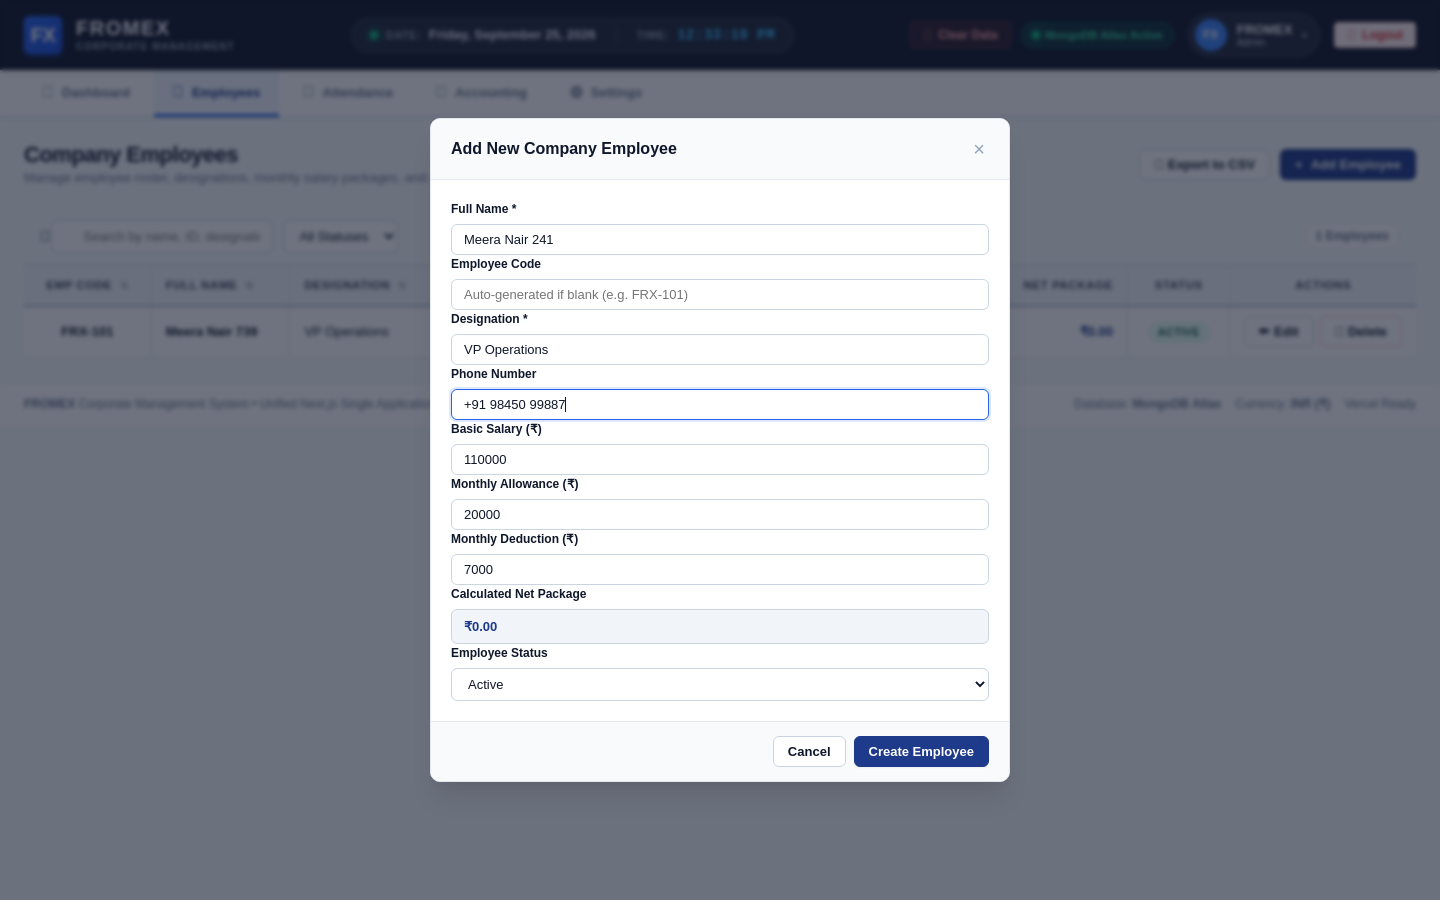
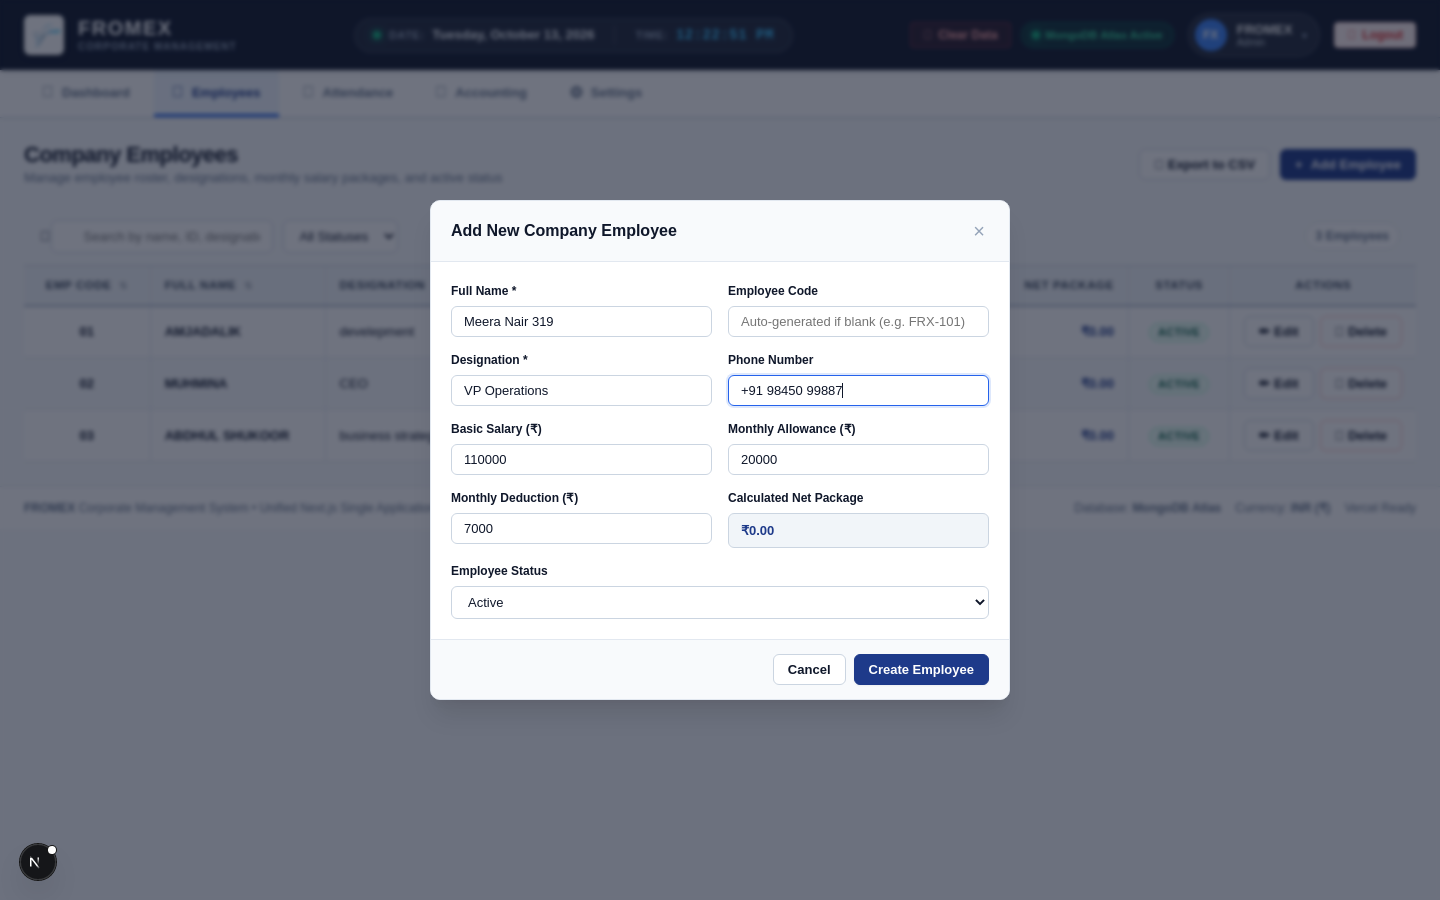
Initial commit

diff --git a/app/page.tsx b/app/page.tsx
@@ -502,7 +502,9 @@ export default function FromexApplication() {
       {/* Corporate Header */}
       <header className="app-header">
         <div className="brand-section">
-          <div className="brand-logo-icon">FX</div>
+          <div className="brand-logo-icon">
+            <img src="/fromex-logo-icon.png" alt="FROMEX Logo" className="brand-logo-img" />
+          </div>
           <div className="brand-info">
             <span className="brand-title">FROMEX</span>
             <span className="brand-subtitle">Corporate Management</span>
@@ -2602,14 +2604,14 @@ function EmployeeModal({ employee, onClose, onSave }: { employee: any; onClose: 
   };
 
   return (
-    <div className="modal-backdrop open" onClick={onClose}>
-      <div className="modal-container" onClick={e => e.stopPropagation()}>
-        <div className="modal-header">
+    <div className="modal-backdrop open" onClick={onClose} style={{ display: 'flex', alignItems: 'center', justifyContent: 'center', overflowY: 'auto', padding: '16px' }}>
+      <div className="modal-container" onClick={e => e.stopPropagation()} style={{ maxHeight: 'min(92vh, 720px)', display: 'flex', flexDirection: 'column', overflow: 'hidden', margin: 'auto' }}>
+        <div className="modal-header" style={{ flexShrink: 0 }}>
           <h3 className="modal-title">{employee ? 'Edit Employee Details' : 'Add New Company Employee'}</h3>
           <button type="button" className="modal-close-btn" onClick={onClose}>&times;</button>
         </div>
-        <form onSubmit={handleSubmit}>
-          <div className="modal-body">
+        <form onSubmit={handleSubmit} style={{ display: 'flex', flexDirection: 'column', flex: 1, minHeight: 0, overflow: 'hidden' }}>
+          <div className="modal-body" style={{ flex: 1, minHeight: 0, overflowY: 'auto' }}>
             <div className="form-grid">
               <div className="form-group">
                 <label className="form-label">Full Name *</label>
@@ -2709,7 +2711,7 @@ function EmployeeModal({ employee, onClose, onSave }: { employee: any; onClose: 
               </div>
             </div>
           </div>
-          <div className="modal-footer" style={{ display: 'flex', justifyContent: 'flex-end', gap: '8px' }}>
+          <div className="modal-footer" style={{ display: 'flex', justifyContent: 'flex-end', gap: '8px', flexShrink: 0 }}>
             <button type="button" className="btn btn-outline" onClick={onClose}>Cancel</button>
             <button id="emp-form-save-btn" type="submit" className="btn btn-primary">{employee ? 'Update Employee' : 'Create Employee'}</button>
           </div>

diff --git a/public/css/components.css b/public/css/components.css
@@ -481,6 +481,7 @@
   box-shadow: var(--shadow-xl);
   width: 100%;
   max-width: 580px;
+  max-height: calc(100vh - 32px);
   max-height: 90vh;
   display: flex;
   flex-direction: column;
@@ -488,10 +489,19 @@
   transition: transform 0.2s ease;
   overflow: hidden;
   border: 1px solid var(--border-subtle);
+  margin: auto;
 }
 
 .modal-backdrop.open .modal-container {
   transform: translateY(0) scale(1);
+}
+
+.modal-container form {
+  display: flex;
+  flex-direction: column;
+  flex: 1;
+  min-height: 0;
+  overflow: hidden;
 }
 
 .modal-header {
@@ -501,6 +511,7 @@
   align-items: center;
   justify-content: space-between;
   background-color: #f8fafc;
+  flex-shrink: 0;
 }
 
 .modal-title {
@@ -529,6 +540,9 @@
   display: flex;
   flex-direction: column;
   gap: 16px;
+  flex: 1;
+  min-height: 0;
+  -webkit-overflow-scrolling: touch;
 }
 
 .modal-footer {
@@ -539,6 +553,62 @@
   justify-content: flex-end;
   gap: 10px;
   background-color: #f8fafc;
+  flex-shrink: 0;
+}
+
+/* Form Layout System (2-Column Grid for Modals) */
+.form-grid {
+  display: grid;
+  grid-template-columns: repeat(2, 1fr);
+  gap: 14px 16px;
+}
+
+.form-group.full-width {
+  grid-column: 1 / -1;
+}
+
+/* Compact layout for shorter screen heights (laptops 768px, browser zoom, etc.) */
+@media (max-height: 800px) {
+  .modal-container {
+    max-height: 94vh;
+  }
+  .modal-header {
+    padding: 12px 18px;
+  }
+  .modal-body {
+    padding: 14px 18px;
+    gap: 12px;
+  }
+  .modal-footer {
+    padding: 10px 18px;
+  }
+  .form-grid {
+    gap: 10px 14px;
+  }
+}
+
+@media (max-height: 650px) {
+  .modal-container {
+    max-height: 96vh;
+  }
+  .modal-header {
+    padding: 10px 14px;
+  }
+  .modal-body {
+    padding: 10px 14px;
+    gap: 8px;
+  }
+  .modal-footer {
+    padding: 8px 14px;
+  }
+  .form-group label {
+    margin-bottom: 2px;
+    font-size: 12px;
+  }
+  .input-control, .select-control {
+    padding: 6px 10px;
+    font-size: 13px;
+  }
 }
 
 /* ===================================================

diff --git a/app/login/page.tsx b/app/login/page.tsx
@@ -179,20 +179,21 @@ export default function LoginPage() {
               display: 'inline-flex',
               alignItems: 'center',
               justifyContent: 'center',
-              width: '52px',
-              height: '52px',
-              background: 'rgba(255, 255, 255, 0.12)',
-              border: '1px solid rgba(255, 255, 255, 0.25)',
-              borderRadius: '12px',
-              fontSize: '22px',
-              fontWeight: 800,
-              letterSpacing: '1px',
-              color: '#ffffff',
+              width: '60px',
+              height: '60px',
+              background: '#ffffff',
+              border: '1px solid rgba(255, 255, 255, 0.4)',
+              borderRadius: '16px',
+              padding: '6px',
               marginBottom: '14px',
-              boxShadow: '0 4px 12px rgba(0, 0, 0, 0.15)'
+              boxShadow: '0 6px 16px rgba(0, 0, 0, 0.25)'
             }}
           >
-            FX
+            <img
+              src="/fromex-logo-icon.png"
+              alt="FROMEX Logo"
+              style={{ width: '100%', height: '100%', objectFit: 'contain', display: 'block' }}
+            />
           </div>
           <h1
             style={{

diff --git a/public/css/responsive.css b/public/css/responsive.css
@@ -60,10 +60,10 @@ body,
   }
 
   .brand-logo-icon {
-    width: 30px;
-    height: 30px;
-    font-size: 15px;
+    width: 32px;
+    height: 32px;
     border-radius: 6px;
+    padding: 3px;
   }
 
   .brand-title {
@@ -427,12 +427,24 @@ body,
     margin: 0;
     border-bottom: none;
     box-shadow: 0 -8px 30px rgba(0, 0, 0, 0.25);
+    display: flex !important;
+    flex-direction: column !important;
+    overflow: hidden !important;
+  }
+
+  .modal-container form {
+    display: flex;
+    flex-direction: column;
+    flex: 1;
+    min-height: 0;
+    overflow: hidden;
   }
 
   .modal-header {
     padding: 14px 18px;
     border-top-left-radius: 18px;
     border-top-right-radius: 18px;
+    flex-shrink: 0;
   }
 
   .modal-title {
@@ -441,7 +453,9 @@ body,
 
   .modal-body {
     padding: 16px 18px;
-    max-height: calc(92vh - 130px);
+    flex: 1;
+    min-height: 0;
+    max-height: calc(92vh - 120px);
     overflow-y: auto;
     -webkit-overflow-scrolling: touch;
   }
@@ -450,6 +464,7 @@ body,
     padding: 12px 18px;
     flex-direction: column-reverse;
     gap: 8px;
+    flex-shrink: 0;
   }
 
   .modal-footer .btn {

diff --git a/public/css/main.css b/public/css/main.css
@@ -41,18 +41,28 @@ body {
 }
 
 .brand-logo-icon {
-  width: 38px;
-  height: 38px;
-  background: linear-gradient(135deg, #2563eb, #1d4ed8);
+  width: 40px;
+  height: 40px;
+  background: #ffffff;
   border-radius: var(--radius-md);
   display: flex;
   align-items: center;
   justify-content: center;
   font-weight: 800;
-  font-size: 20px;
+  font-size: 18px;
   letter-spacing: -0.5px;
-  color: #ffffff;
-  box-shadow: 0 2px 4px rgba(37, 99, 235, 0.4);
+  color: var(--primary);
+  box-shadow: 0 2px 6px rgba(0, 0, 0, 0.25);
+  padding: 4px;
+  overflow: hidden;
+  flex-shrink: 0;
+}
+
+.brand-logo-img {
+  width: 100%;
+  height: 100%;
+  object-fit: contain;
+  display: block;
 }
 
 .brand-info {

diff --git a/public/index.html b/public/index.html
@@ -18,7 +18,9 @@
   <!-- Corporate Header -->
   <header class="app-header">
     <div class="brand-section">
-      <div class="brand-logo-icon">FX</div>
+      <div class="brand-logo-icon">
+        <img src="/fromex-logo-icon.png" alt="FROMEX Logo" class="brand-logo-img">
+      </div>
       <div class="brand-info">
         <span class="brand-title">FROMEX</span>
         <span class="brand-subtitle">Corporate Management</span>
